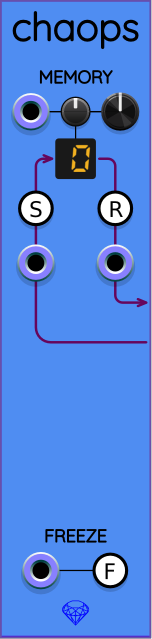
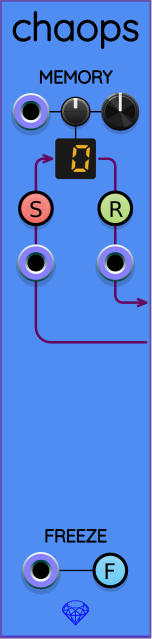
Chaops panel: added color tint to the buttons S, R, F.

Changed region(s): [[0.6579, 0.2973, 0.8684, 0.3568], [0.1316, 0.2973, 0.3421, 0.3568], [0.6316, 0.8623, 0.8158, 0.9218]]

diff --git a/src/chaops_vcv.cpp b/src/chaops_vcv.cpp
@@ -126,6 +126,12 @@ namespace Sapphire
                 return portActive ^ buttonActive;
             }
 
+            static int flashDurationSamples(float sampleRate)
+            {
+                const float flashDurationSeconds = 0.05;
+                return static_cast<int>(flashDurationSeconds * sampleRate);
+            }
+
             void process(const ProcessArgs& args) override
             {
                 bool frozen = false;
@@ -142,15 +148,14 @@ namespace Sapphire
                     // HACK: "currentChannelCount" is really the displayed memory address.
                     currentChannelCount = message.memoryIndex;
 
-                    const float flashDurationSeconds = 0.05;
 
                     if (message.store)
-                        storeFlashCounter = static_cast<int>(args.sampleRate * flashDurationSeconds);
+                        storeFlashCounter = flashDurationSamples(args.sampleRate);
                     else if (storeFlashCounter > 0)
                         --storeFlashCounter;
 
                     if (message.recall)
-                        recallFlashCounter = static_cast<int>(args.sampleRate * flashDurationSeconds);
+                        recallFlashCounter = flashDurationSamples(args.sampleRate);
                     else if (recallFlashCounter > 0)
                         --recallFlashCounter;
                 }
@@ -182,16 +187,19 @@ namespace Sapphire
 
                 auto storeButton = createLightParamCentered<LetterButton>(Vec{}, module, STORE_BUTTON_PARAM, STORE_BUTTON_LIGHT);
                 storeButton->setCaption('S');
+                storeButton->initBaseColor(SCHEME_RED);
                 addSapphireParam(storeButton, "store_button");
 
                 auto recallButton = createLightParamCentered<LetterButton>(Vec{}, module, RECALL_BUTTON_PARAM, RECALL_BUTTON_LIGHT);
                 recallButton->setCaption('R');
+                recallButton->initBaseColor(SCHEME_GREEN);
                 addSapphireParam(recallButton, "recall_button");
 
                 auto freezeButton = createLightParamCentered<LetterButton>(Vec{}, module, FREEZE_BUTTON_PARAM, FREEZE_BUTTON_LIGHT);
                 freezeButton->momentary = false;
                 freezeButton->latch = true;
                 freezeButton->setCaption('F');
+                freezeButton->initBaseColor(SCHEME_BLUE);
                 addSapphireParam(freezeButton, "freeze_button");
 
                 addSapphireInput(STORE_TRIGGER_INPUT, "store_trigger");

diff --git a/src/sapphire_widget.hpp b/src/sapphire_widget.hpp
@@ -94,13 +94,14 @@ namespace Sapphire
     };
 
 
-    using letter_button_base_t = VCVLightBezel<>;
+    using letter_button_base_t = VCVLightBezel<GrayModuleLightWidget>;
     struct LetterButton : letter_button_base_t
     {
         std::string fontPath = asset::system("res/fonts/DejaVuSans.ttf");
         char caption[2]{};
         float dxText =  8.0;
         float dyText = 10.5;
+        bool baseColorInitialized = false;
 
         void drawLayer(const DrawArgs& args, int layer) override
         {
@@ -110,6 +111,9 @@ namespace Sapphire
             {
                 if (caption[0])
                 {
+                    if (!baseColorInitialized)
+                        initBaseColor(SCHEME_WHITE);
+
                     std::shared_ptr<Font> font = APP->window->loadFont(fontPath);
                     if (font)
                     {
@@ -127,6 +131,12 @@ namespace Sapphire
         void setCaption(char c)
         {
             caption[0] = c;
+        }
+
+        void initBaseColor(NVGcolor color)
+        {
+            light->addBaseColor(color);
+            baseColorInitialized = true;
         }
     };
 
